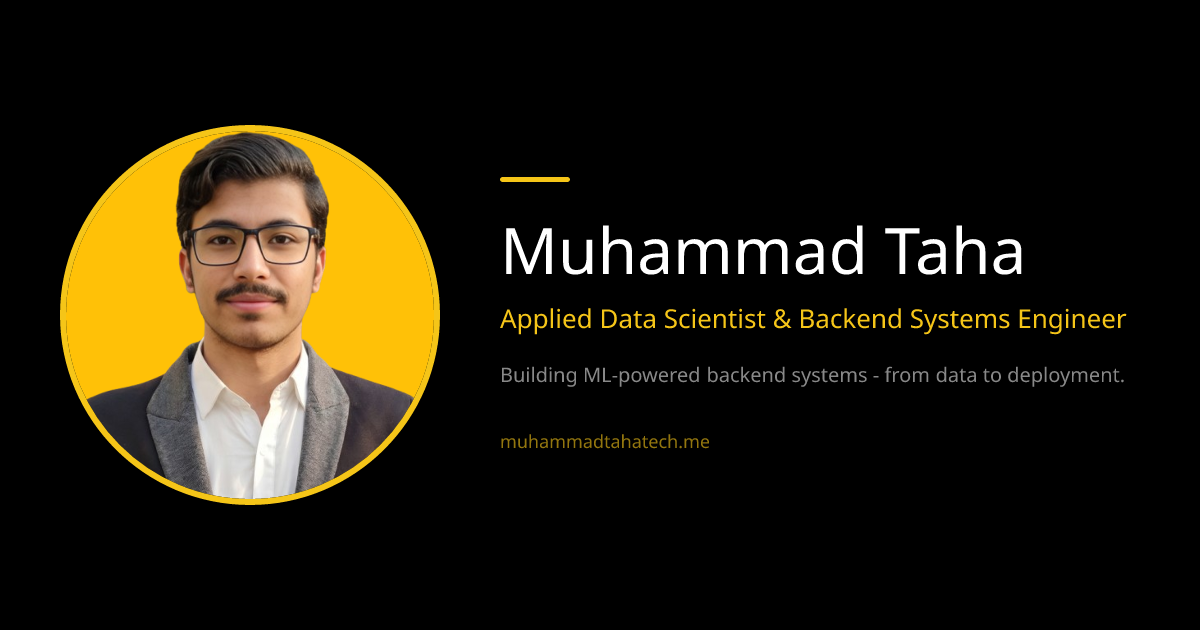
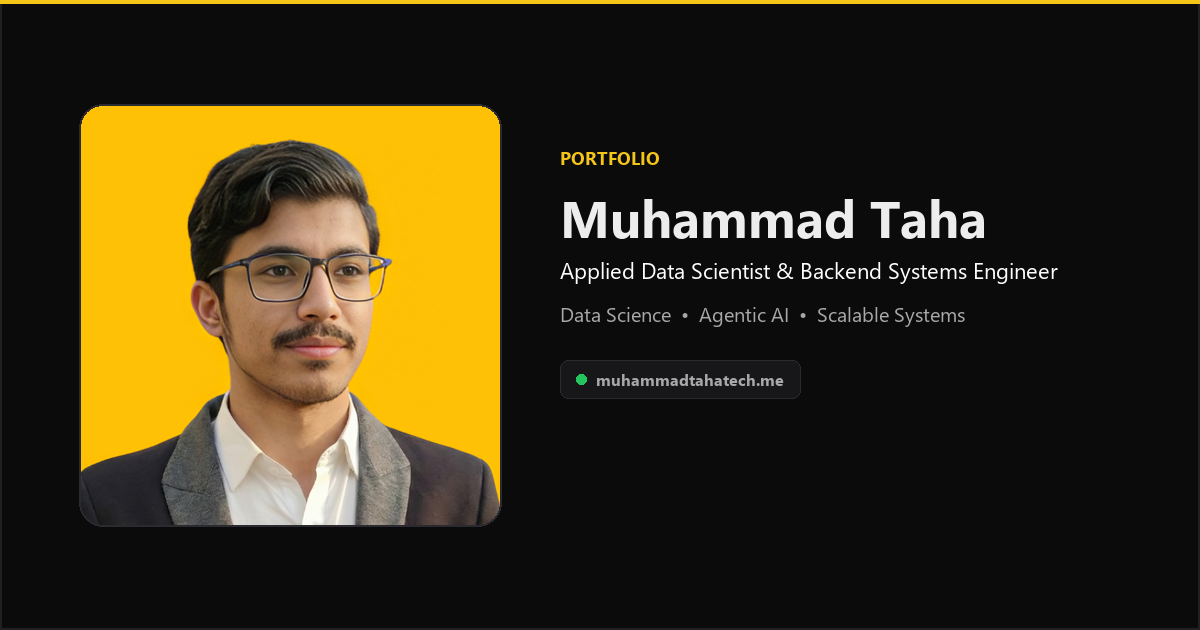
fix(seo): configure square profile for WhatsApp/OG and updated Systems Engineer metadata

Changed region(s): [[0.0308, 0.1508, 0.9558, 0.8444], [0.0, 0.0, 1.0, 1.0]]

diff --git a/portfolio/src/app/layout.tsx b/portfolio/src/app/layout.tsx
@@ -31,17 +31,19 @@ export const viewport: Viewport = {
 export const metadata: Metadata = {
   metadataBase: new URL(BASE_URL),
   title: {
-    default: "Muhammad Taha | Applied Data Scientist & Backend Engineer",
+    default: "Muhammad Taha | Applied Data Scientist & Backend Systems Engineer",
     template: "%s | Muhammad Taha",
   },
   description:
-    "Muhammad Taha is an Applied Data Scientist and Backend Engineer building ML-powered APIs, data-driven systems, and production-ready applications.",
+    "Muhammad Taha is an Applied Data Scientist and Backend Systems Engineer building ML-powered APIs, data-driven systems, and production-ready applications.",
   keywords: [
     "Muhammad Taha",
     "Software Engineer Pakistan",
     "Applied Data Scientist",
+    "Backend Systems Engineer",
     "Backend Engineer",
     "Machine Learning Engineer",
+    "Agentic AI",
     "FastAPI Developer",
     "Node.js Engineer",
     "ML Deployment",
@@ -66,25 +68,32 @@ export const metadata: Metadata = {
     type: "website",
     locale: "en_US",
     url: BASE_URL,
-    title: "Muhammad Taha | Applied Data Scientist & Backend Engineer",
+    title: "Muhammad Taha | Applied Data Scientist & Backend Systems Engineer",
     description:
-      "Muhammad Taha is an Applied Data Scientist and Backend Engineer building ML-powered APIs, data-driven systems, and production-ready applications.",
+      "Muhammad Taha is an Applied Data Scientist and Backend Systems Engineer building ML-powered APIs, data-driven systems, and production-ready applications.",
     siteName: "Muhammad Taha Portfolio",
     images: [
+      {
+        url: `${BASE_URL}/profile.png`,
+        width: 750,
+        height: 750,
+        alt: "Muhammad Taha | Applied Data Scientist & Backend Systems Engineer",
+        type: "image/png",
+      },
       {
         url: `${BASE_URL}/og-image.png`,
         width: 1200,
         height: 630,
-        alt: "Muhammad Taha | Applied Data Scientist & Backend Engineer",
+        alt: "Muhammad Taha | Applied Data Scientist & Backend Systems Engineer",
         type: "image/png",
       },
     ],
   },
   twitter: {
     card: "summary_large_image",
-    title: "Muhammad Taha | Applied Data Scientist & Backend Engineer",
+    title: "Muhammad Taha | Applied Data Scientist & Backend Systems Engineer",
     description:
-      "Muhammad Taha is an Applied Data Scientist and Backend Engineer building ML-powered APIs, data-driven systems, and production-ready applications.",
+      "Muhammad Taha is an Applied Data Scientist and Backend Systems Engineer building ML-powered APIs, data-driven systems, and production-ready applications.",
     creator: "@M_Taha093589350",
     images: [`${BASE_URL}/og-image.png`],
   },
@@ -110,7 +119,7 @@ const jsonLd = {
       "@type": "Person",
       "@id": `${BASE_URL}/#person`,
       name: "Muhammad Taha",
-      jobTitle: "Software Engineer & Applied Data Scientist",
+      jobTitle: "Applied Data Scientist & Backend Systems Engineer",
       url: BASE_URL,
       email: "contact.taha2005@gmail.com",
       image: `${BASE_URL}/hero.png`,
@@ -150,7 +159,7 @@ const jsonLd = {
       "@id": `${BASE_URL}/#website`,
       url: BASE_URL,
       name: "Muhammad Taha Portfolio",
-      description: "Portfolio of Muhammad Taha - Applied Data Scientist & Backend Engineer building ML-powered APIs and data-driven systems.",
+      description: "Portfolio of Muhammad Taha - Applied Data Scientist & Backend Systems Engineer building ML-powered APIs and data-driven systems.",
       author: { "@id": `${BASE_URL}/#person` },
       potentialAction: {
         "@type": "SearchAction",
